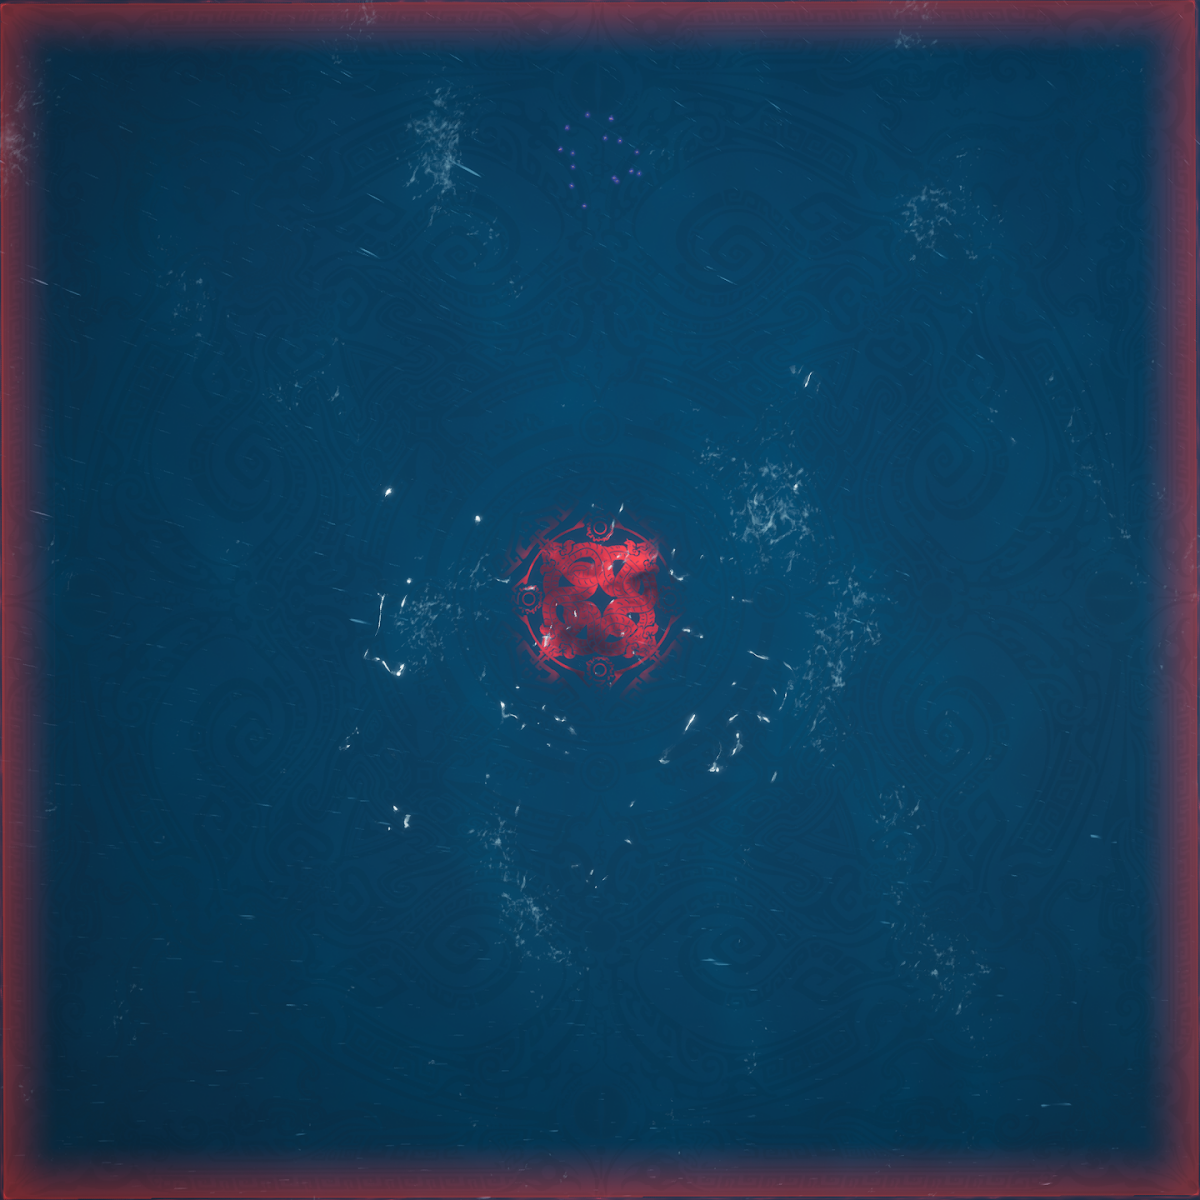
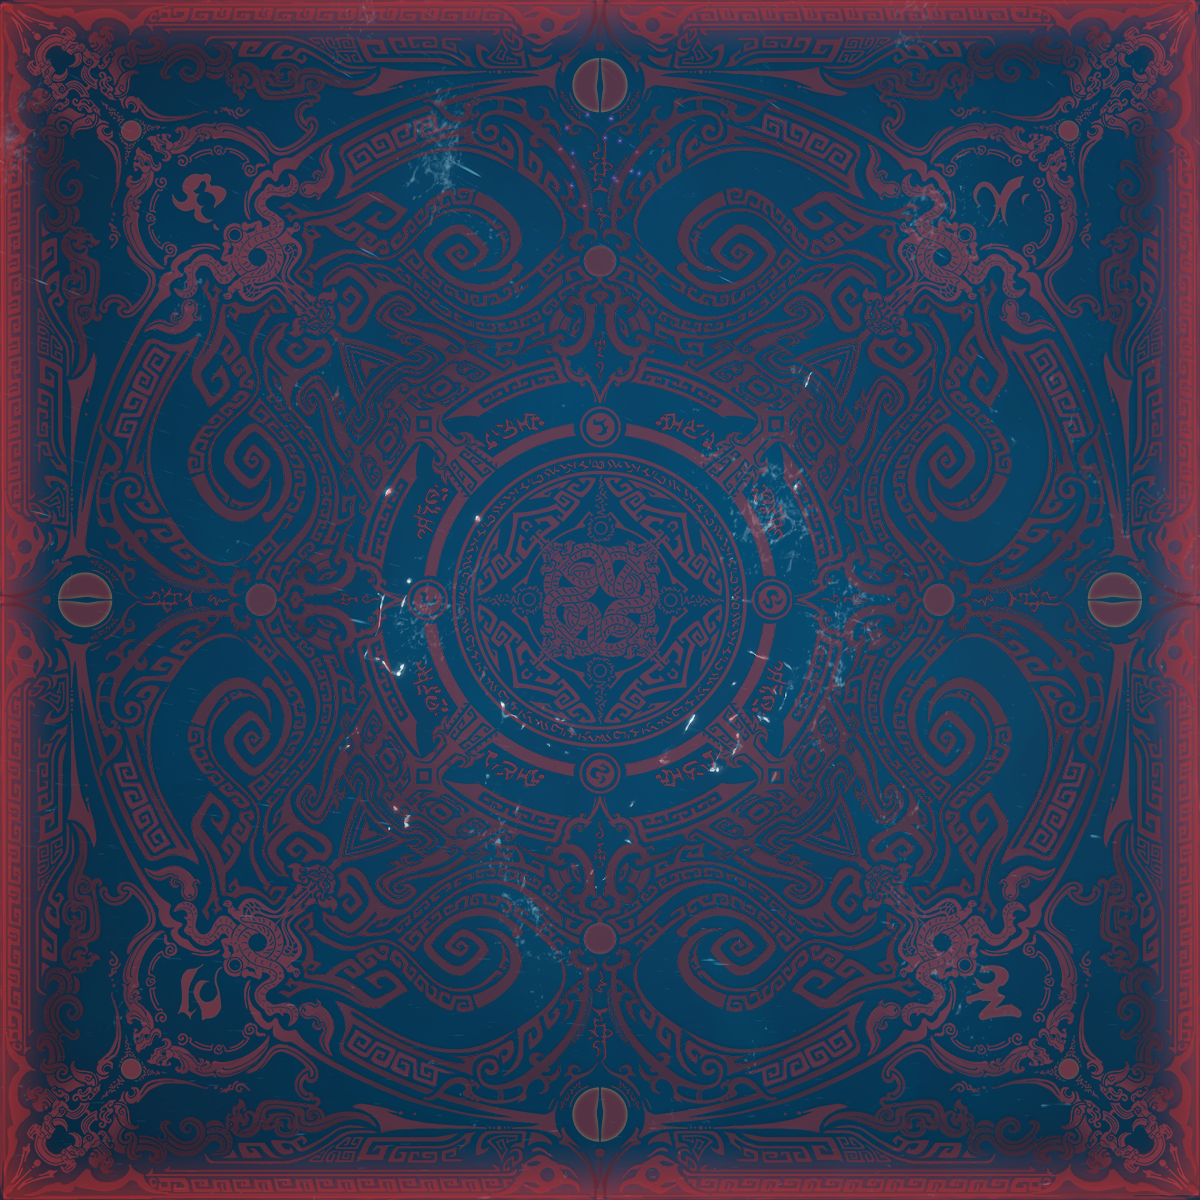
add 霜封无垢海B2背景

diff --git a/src/presets/ArenaPresets.ts b/src/presets/ArenaPresets.ts
@@ -12,8 +12,10 @@ import { ARENA_PRESETS_ULTIMATE_TOP } from './ultimate/TOP';
 import { ARENA_PRESETS_ULTIMATE_UCOB } from './ultimate/UCOB';
 import { ARENA_PRESETS_ULTIMATE_UWU } from './ultimate/UWU';
 import { ARENA_PRESETS_NIGHTMARE_FXKND } from './nightmare/fxknd';
+import { ARENA_PRESETS_NIGHTMARE_SFWGH } from './nightmare/sfwgh.ts';
 
 export const ARENA_PRESETS: Record<string, Record<string, ArenaPreset[]>> = {
+    最终幻想14: {},
     '': {
         General: ARENA_PRESETS_GENERAL,
         异闻迷宫: ARENA_PRESETS_CRITERION,
@@ -32,8 +34,10 @@ export const ARENA_PRESETS: Record<string, Record<string, ArenaPreset[]>> = {
         欧米茄绝境验证战: ARENA_PRESETS_ULTIMATE_TOP,
         光暗未来绝境战: ARENA_PRESETS_ULTIMATE_FRU,
     },
-    噩梦: {
+    诛仙世界: {},
+    大型团本: {
         伏凶夔牛岛: ARENA_PRESETS_NIGHTMARE_FXKND,
         // '炼狱逐夔影': ARENA_PRESETS_ULTIMATE_UCOB
+        霜封无垢海: ARENA_PRESETS_NIGHTMARE_SFWGH,
     },
 };

diff --git a/src/presets/nightmare/sfwgh.ts b/src/presets/nightmare/sfwgh.ts
@@ -1,0 +1,13 @@
+import { ArenaPreset, ArenaShape, GridType } from '../../scene';
+
+const BATTLE_2: ArenaPreset = {
+    name: '霜封无垢海-慈心霜魂',
+    shape: ArenaShape.Rectangle,
+    width: 600,
+    height: 600,
+    padding: 30,
+    grid: { type: GridType.None },
+    backgroundImage: '/arena/zxsj/nightmare/sfwgh/sfwgh_b2.png',
+};
+
+export const ARENA_PRESETS_NIGHTMARE_SFWGH = [BATTLE_2];
